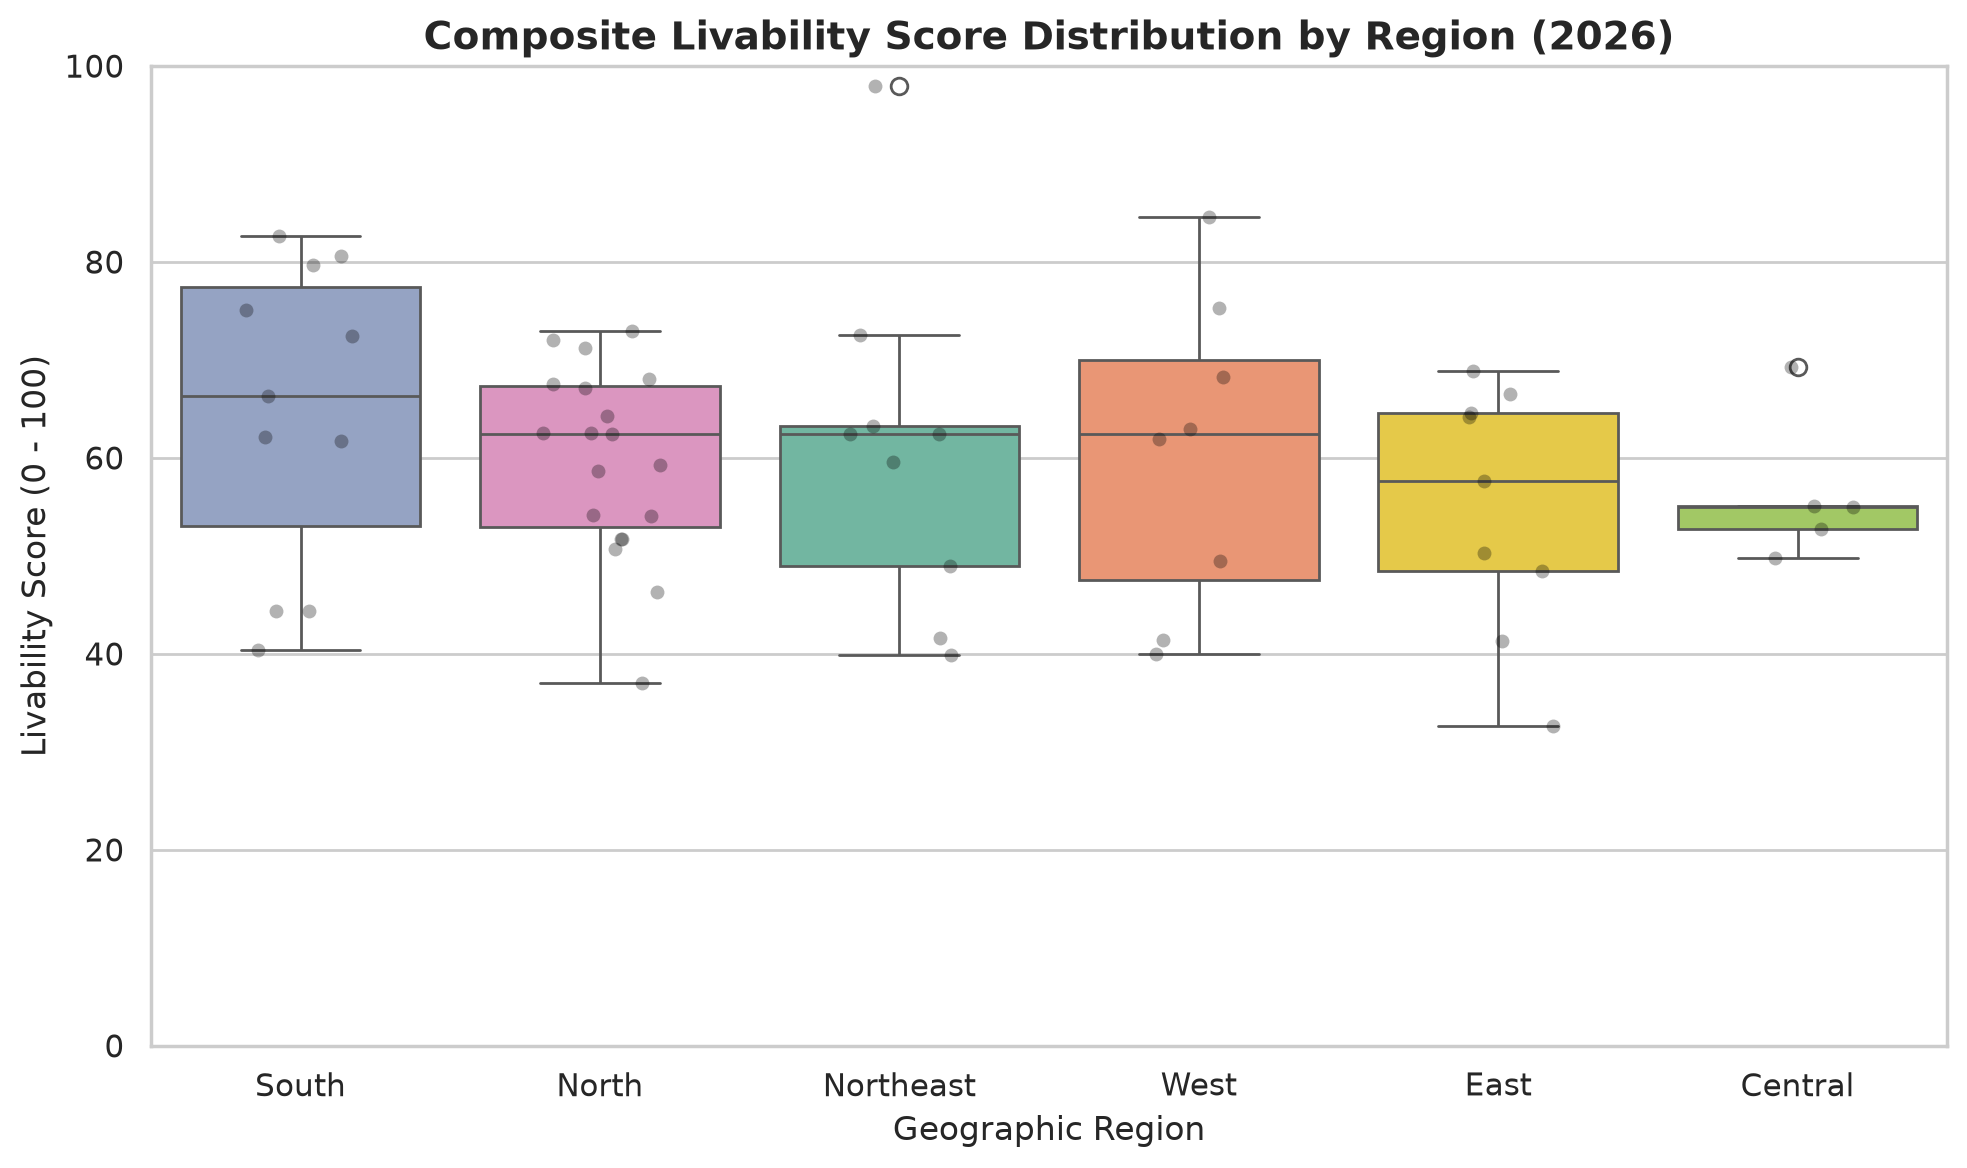
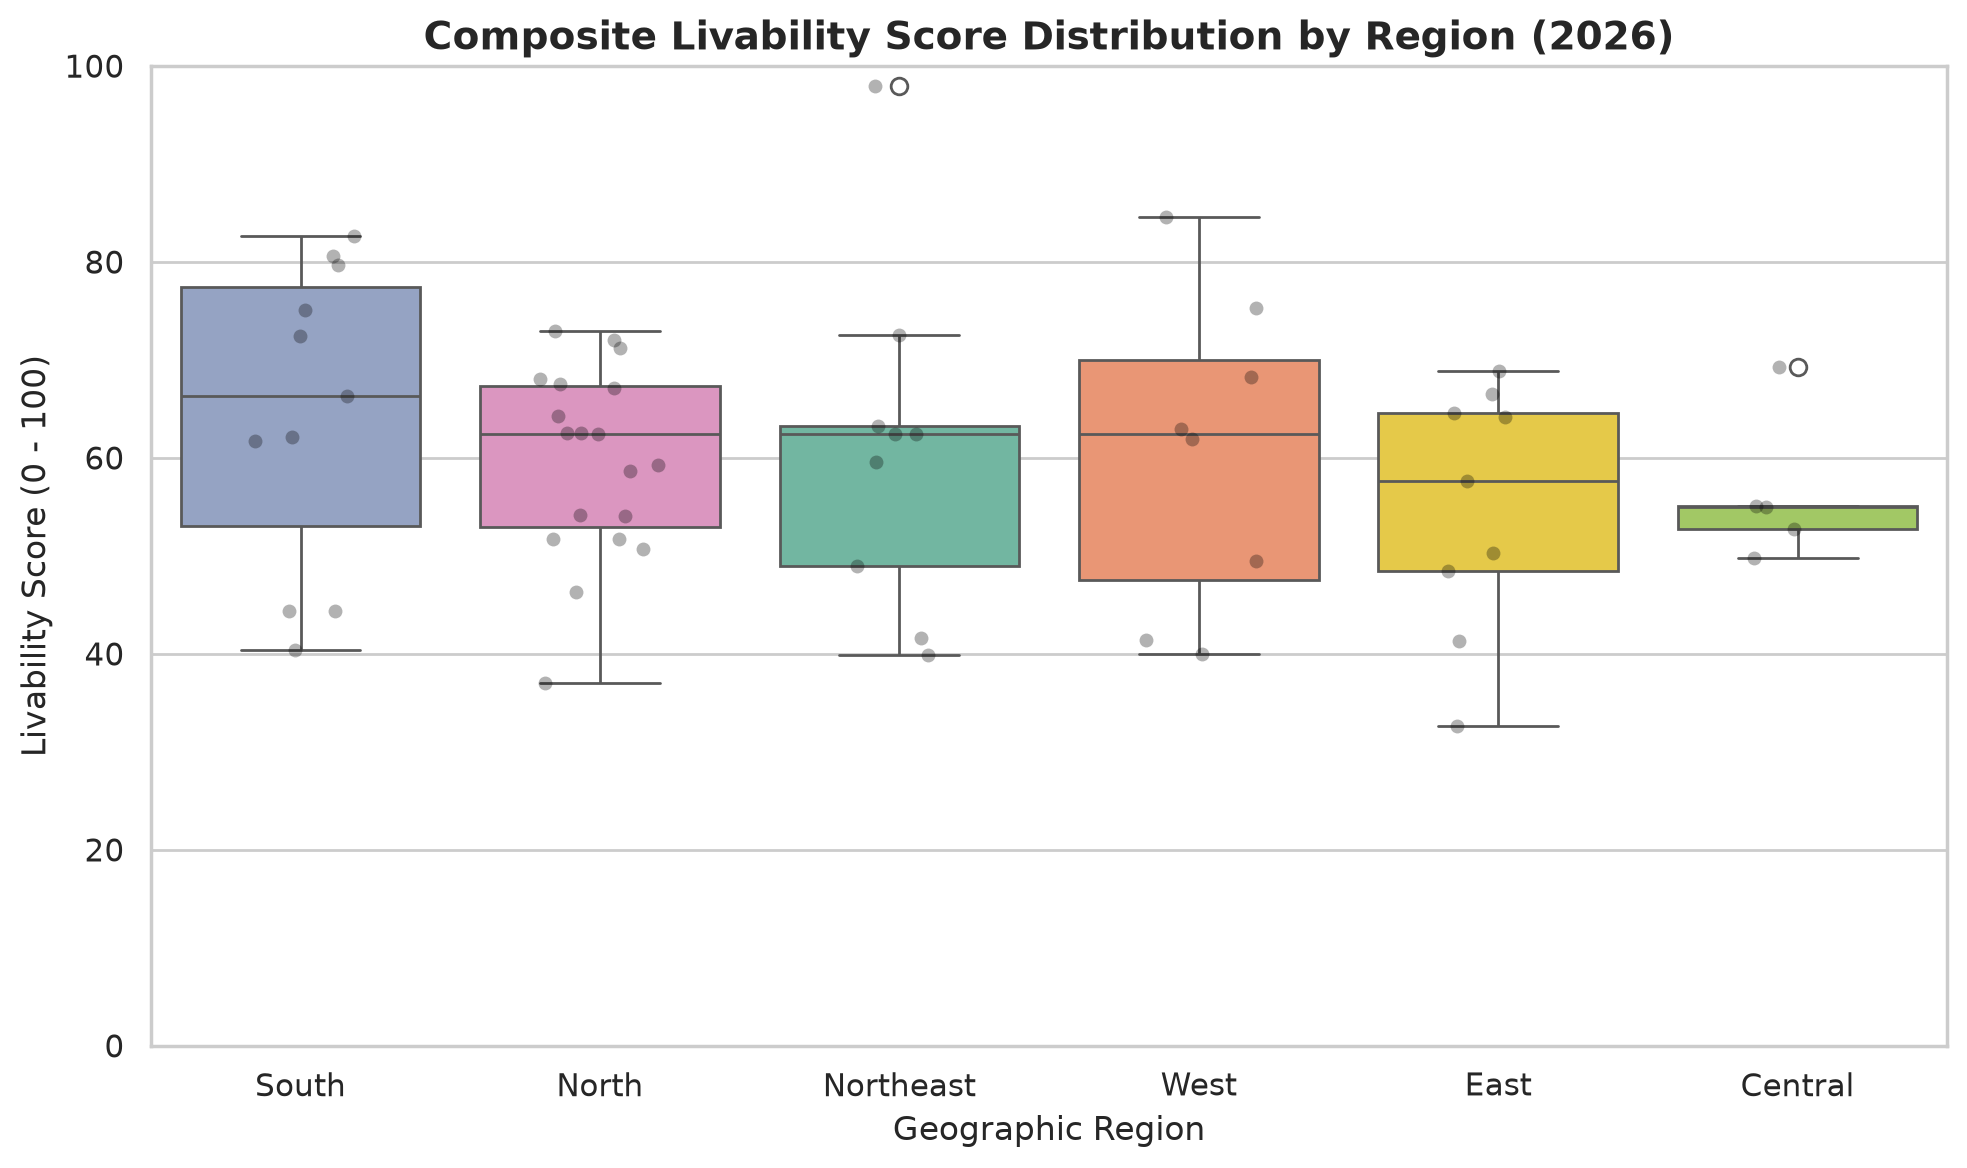
fix(loaders): map missing city aliases and demote optional cpcb log to info (fixes #53)

diff --git a/India Livability Intelligence System/tests/test_helpers_and_pipeline.py b/India Livability Intelligence System/tests/test_helpers_and_pipeline.py
@@ -401,3 +401,28 @@ class TestExportFrontendData:
 
         # stale_dst should be unlinked because its source does not exist
         assert not stale_dst.exists()
+
+    def test_load_cpcb_empty_dir_logs_info_not_error(self, tmp_path, caplog):
+        import logging
+        from src.loaders.load_air_cpcb import load_all_cpcb, run_coverage_check
+
+        with caplog.at_level(logging.INFO):
+            df = load_all_cpcb(raw_dir=tmp_path)
+            assert df.empty
+            cov = run_coverage_check(raw_dir=tmp_path)
+            assert cov.empty
+
+        errors = [r for r in caplog.records if r.levelno >= logging.ERROR]
+        assert len(errors) == 0, f"Expected 0 ERROR logs on empty CPCB dir, got: {errors}"
+
+    def test_all_city_day_cities_mapped_in_alias_map(self):
+        from src.utils.helpers import load_alias_map, standardize_name
+
+        alias_map = load_alias_map()
+        for city in [
+            "Aizawl", "Amaravati", "Brajrajnagar", "Ernakulam",
+            "Gurugram", "Jorapokhar", "Shillong", "Talcher",
+        ]:
+            assert city.lower() in alias_map
+            standardized = standardize_name(city, alias_map, warn=False)
+            assert isinstance(standardized, str) and len(standardized) > 0

diff --git a/India Livability Intelligence System/src/loaders/load_air_cpcb.py b/India Livability Intelligence System/src/loaders/load_air_cpcb.py
@@ -199,7 +199,10 @@ def load_all_cpcb(raw_dir: Path = RAW_AIR_CPCB) -> pd.DataFrame:
         logger.error("Excluding known generated placeholder from CPCB inputs: %s", path)
 
     if not pdfs and not csvs:
-        logger.error("No PDF or CSV files found in %s", raw_dir)
+        logger.info(
+            "No PDF or CSV files found in %s (optional CPCB NAMP annual report directory).",
+            raw_dir,
+        )
         return pd.DataFrame()
 
     frames = []
@@ -235,7 +238,7 @@ def load_all_cpcb(raw_dir: Path = RAW_AIR_CPCB) -> pd.DataFrame:
             frames.append(df)
 
     if not frames:
-        logger.error("No CPCB data could be extracted.")
+        logger.info("No CPCB data could be extracted from %s.", raw_dir)
         return pd.DataFrame()
 
     combined = pd.concat(frames, ignore_index=True)
@@ -261,7 +264,7 @@ def run_coverage_check(raw_dir: Path = RAW_AIR_CPCB) -> pd.DataFrame:
 
     combined = load_all_cpcb(raw_dir)
     if combined.empty:
-        logger.error("Cannot run CPCB coverage check — no data extracted.")
+        logger.info("Cannot run CPCB coverage check — no data extracted from %s.", raw_dir)
         return pd.DataFrame()
 
     valid = combined.dropna(subset=["pm25_annual"])

diff --git a/India Livability Intelligence System/src/cleaning/run_pipeline.py b/India Livability Intelligence System/src/cleaning/run_pipeline.py
@@ -86,11 +86,11 @@ def stage_load(
         _record_error("Failed to load Kaggle air data", e)
         raw[FACTOR_AIR + "_kaggle"] = pd.DataFrame()
 
-    # Air — CPCB (annual)
+    # Air — CPCB (annual, optional)
     try:
         raw[FACTOR_AIR + "_cpcb"] = load_all_cpcb()
     except Exception as e:
-        _record_error("Failed to load CPCB air data", e)
+        _record_optional_warning("Failed to load CPCB air data", e)
         raw[FACTOR_AIR + "_cpcb"] = pd.DataFrame()
 
     # Air — enriched 2025-2026 station data (annual aggregation)

diff --git a/India Livability Intelligence System/frontend/public/data/data_quality_report.md b/India Livability Intelligence System/frontend/public/data/data_quality_report.md
@@ -1,6 +1,6 @@
 # Data Quality Report
 
-**Generated (UTC):** 2026-11-22T05:47:39+00:00  
+**Generated (UTC):** 2026-11-22T06:04:02+00:00  
 **Place master:** 61 places (32 states/UTs, 29 cities)  
 **Tidy rows:** 957  
 **Wide rows:** 643  

diff --git a/India Livability Intelligence System/reports/data_quality_report.md b/India Livability Intelligence System/reports/data_quality_report.md
@@ -1,6 +1,6 @@
 # Data Quality Report
 
-**Generated (UTC):** 2026-11-22T05:47:39+00:00  
+**Generated (UTC):** 2026-11-22T06:04:02+00:00  
 **Place master:** 61 places (32 states/UTs, 29 cities)  
 **Tidy rows:** 957  
 **Wide rows:** 643  
